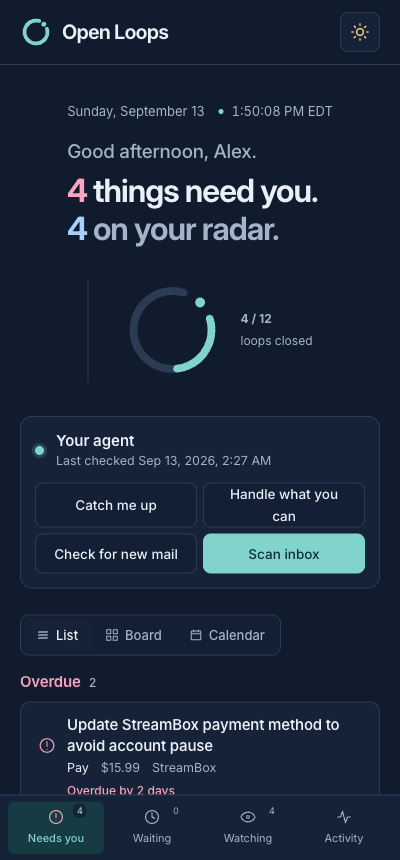
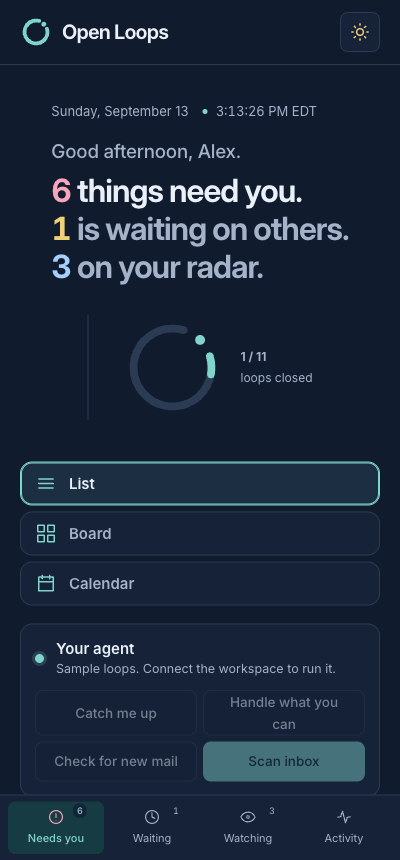
feat(web): area on every row and loop page; the three views as large tabs
Claude-Session: https://claude.ai/code/session_019ubQ7yENbnT3cashjRQMUd

diff --git a/web/app/globals.css b/web/app/globals.css
@@ -682,49 +682,59 @@ summary {
   }
 }
 
-/* View switch */
-.view-bar {
-  display: flex;
-  align-items: center;
-  justify-content: space-between;
-  gap: 12px;
-  margin-top: 26px;
-  margin-bottom: 14px;
-}
+/* View switch: the three views are the page's primary navigation */
 .view-switch {
-  display: inline-flex;
-  align-items: center;
-  gap: 3px;
-  padding: 3px;
-  border: 1px solid var(--border);
-  border-radius: 9px;
-  background: var(--surface);
+  display: grid;
+  grid-template-columns: repeat(3, minmax(0, 1fr));
+  gap: 8px;
+  margin: 8px 0 18px;
 }
 .view-switch a {
   display: flex;
   align-items: center;
-  gap: 6px;
-  padding: 6px 12px;
-  font-size: 13px;
-  font-weight: 500;
+  gap: 12px;
+  padding: 13px 16px;
+  border: 1px solid var(--border);
+  border-radius: 12px;
+  background: var(--card);
   color: var(--muted);
-  border-radius: 6px;
+  transition:
+    border-color 140ms,
+    background 140ms,
+    color 140ms;
 }
 .view-switch a:hover {
   color: var(--foreground);
+  border-color: color-mix(in srgb, var(--accent) 40%, var(--border));
 }
 .view-switch a[aria-current="page"] {
-  background: var(--card);
   color: var(--foreground);
-  box-shadow: 0 1px 4px #102c3212;
+  border-color: var(--accent);
+  background: color-mix(in srgb, var(--accent) 7%, var(--card));
+  box-shadow: inset 0 0 0 1px var(--accent);
 }
 .view-switch svg {
-  width: 14px;
-  height: 14px;
+  width: 22px;
+  height: 22px;
+  flex-shrink: 0;
+  color: var(--accent);
+}
+.view-switch strong {
+  display: block;
+  font-size: 15px;
+  font-weight: 600;
+  line-height: 1.3;
+}
+.view-switch small {
+  display: block;
+  font-size: 12.5px;
+  color: var(--muted);
 }
 .view-hint {
+  margin: 18px 0 -12px;
   font-size: 12px;
   color: var(--muted);
+  text-align: right;
 }
 .view-hint kbd {
   font: inherit;
@@ -843,6 +853,17 @@ summary {
 .tl-meta em {
   font-style: normal;
   color: var(--foreground);
+}
+.area-pill {
+  display: inline-flex;
+  align-items: center;
+  padding: 1px 7px;
+  border-radius: 5px;
+  font-size: 11.5px;
+  font-weight: 500;
+  color: var(--foreground);
+  background: var(--surface);
+  border: 1px solid var(--border);
 }
 .tl-due {
   font-size: 13px;
@@ -1009,9 +1030,15 @@ summary {
     width: 56px;
     height: 56px;
   }
-  .view-bar {
-    flex-direction: column;
-    align-items: flex-start;
+  .view-switch {
+    grid-template-columns: minmax(0, 1fr);
+    gap: 6px;
+  }
+  .view-switch a {
+    padding: 10px 14px;
+  }
+  .view-switch small {
+    display: none;
   }
   .view-hint {
     display: none;

diff --git a/web/components/loop-board.tsx b/web/components/loop-board.tsx
@@ -23,7 +23,14 @@ import {
   restorePositions,
   zoomCamera,
 } from '@/lib/board'
-import { DEMO_TIME_ZONE, formatDate, formatDue, formatMoney, groupByStatus } from '@/lib/format'
+import {
+  AREA_LABEL,
+  DEMO_TIME_ZONE,
+  formatDate,
+  formatDue,
+  formatMoney,
+  groupByStatus,
+} from '@/lib/format'
 import { LiveClock } from './live-clock'
 import { LoopMark, StateIcon } from './loop-mark'
 import './loop-board.css'
@@ -110,21 +117,21 @@ const CATEGORY_GROUPS: Group[] = (Object.keys(CATEGORY_LABEL) as LoopCategory[])
   }),
 )
 
-const AREA_LABEL: Record<LoopArea, [title: string, hint: string]> = {
-  school: ['School', 'Courses, credits, the registrar'],
-  work: ['Work', 'Colleagues, clients, reviews'],
-  money: ['Money', 'Bills, fees, subscriptions'],
-  health: ['Health', 'Doctors, dentists, claims'],
-  home: ['Home', 'Lease, utilities, moving'],
-  travel: ['Travel', 'Flights, documents, stays'],
-  community: ['Clubs', 'Teams, volunteering, events'],
-  other: ['Other', 'Everything else'],
+const AREA_HINT: Record<LoopArea, string> = {
+  school: 'Courses, credits, the registrar',
+  work: 'Colleagues, clients, reviews',
+  money: 'Bills, fees, subscriptions',
+  health: 'Doctors, dentists, claims',
+  home: 'Lease, utilities, moving',
+  travel: 'Flights, documents, stays',
+  community: 'Teams, volunteering, events',
+  other: 'Everything else',
 }
 
-const AREA_GROUPS: Group[] = (Object.keys(AREA_LABEL) as LoopArea[]).map((area, i) => ({
+const AREA_GROUPS: Group[] = (Object.keys(AREA_HINT) as LoopArea[]).map((area, i) => ({
   id: `area-${area}`,
-  title: AREA_LABEL[area][0],
-  hint: AREA_LABEL[area][1],
+  title: AREA_LABEL[area],
+  hint: AREA_HINT[area],
   empty: '',
   position: { x: 40 + (i % 4) * 335, y: 215 + Math.floor(i / 4) * 300 },
   tone: 'category',

diff --git a/web/components/view-switch.tsx b/web/components/view-switch.tsx
@@ -3,10 +3,22 @@ import { StateIcon } from './loop-mark'
 
 export type View = 'list' | 'board' | 'calendar'
 
-const VIEWS: { id: View; label: string; href: string; icon: string }[] = [
-  { id: 'list', label: 'List', href: '/', icon: 'list' },
-  { id: 'board', label: 'Board', href: '/?view=board', icon: 'overview' },
-  { id: 'calendar', label: 'Calendar', href: '/?view=calendar', icon: 'calendar' },
+const VIEWS: { id: View; label: string; caption: string; href: string; icon: string }[] = [
+  { id: 'list', label: 'List', caption: 'By when it is due', href: '/', icon: 'list' },
+  {
+    id: 'board',
+    label: 'Board',
+    caption: 'Arrange by state, category or area',
+    href: '/?view=board',
+    icon: 'overview',
+  },
+  {
+    id: 'calendar',
+    label: 'Calendar',
+    caption: 'Deadlines on the month',
+    href: '/?view=calendar',
+    icon: 'calendar',
+  },
 ]
 
 export function parseView(raw: string | string[] | undefined): View {
@@ -24,7 +36,10 @@ export function ViewSwitch({ current }: { current: View }) {
           aria-current={view.id === current ? 'page' : undefined}
         >
           <StateIcon name={view.icon} />
-          {view.label}
+          <span>
+            <strong>{view.label}</strong>
+            <small>{view.caption}</small>
+          </span>
         </Link>
       ))}
     </nav>

diff --git a/web/app/loops/[id]/page.tsx b/web/app/loops/[id]/page.tsx
@@ -6,7 +6,7 @@ import { ActionEffect } from '@/components/action-effect'
 import { StatusChip } from '@/components/status-chip'
 import { SubmitButton } from '@/components/submit-button'
 import { parseEffect, STATUS_TEXT, terminalReason } from '@/lib/effects'
-import { formatDate, formatDue, formatMoney, formatPercent } from '@/lib/format'
+import { AREA_LABEL, formatDate, formatDue, formatMoney, formatPercent } from '@/lib/format'
 import { getStore, USER_ID } from '@/lib/ledger'
 import { hasSourcePage, messageHref, SOURCE_LABEL } from '@/lib/source'
 
@@ -54,6 +54,7 @@ export default async function LoopPage({ params }: PageProps<'/loops/[id]'>) {
     (due === 'Due today' || due === 'Due tomorrow' || due.startsWith('Overdue'))
   const facts: { label: string; value: string; soon?: boolean }[] = [
     ...(due ? [{ label: 'When', value: due, soon }] : []),
+    ...(loop.area !== 'other' ? [{ label: 'Area', value: AREA_LABEL[loop.area] }] : []),
     ...(loop.amount ? [{ label: 'Amount', value: formatMoney(loop.amount) ?? '' }] : []),
     ...(loop.status === 'WAITING' && loop.waitingOn
       ? [{ label: 'Waiting on', value: loop.waitingOn }]

diff --git a/web/lib/format.ts b/web/lib/format.ts
@@ -1,4 +1,4 @@
-import type { ActionType, LoopStatus, Money, OpenLoop, Priority } from '@openloop/shared'
+import type { ActionType, LoopArea, LoopStatus, Money, OpenLoop, Priority } from '@openloop/shared'
 
 /**
  * The demo's clock. Every fixture date carries a -04:00 offset and the demo script says the club
@@ -204,4 +204,16 @@ export function groupByTime(loops: OpenLoop[], now: Date): Map<TimeBucket, OpenL
   )
   for (const loop of sorted) groups.get(bucket(loop))?.push(loop)
   return groups
+}
+
+/** How an area reads to a person. One owner for the words; the board and the rows share it. */
+export const AREA_LABEL: Record<LoopArea, string> = {
+  school: 'School',
+  work: 'Work',
+  money: 'Money',
+  health: 'Health',
+  home: 'Home',
+  travel: 'Travel',
+  community: 'Clubs',
+  other: 'Other',
 }

diff --git a/web/app/page.tsx b/web/app/page.tsx
@@ -112,15 +112,13 @@ export default async function Home({ searchParams }: PageProps<'/'>) {
         </div>
         <LoopRing closed={resolved} total={loops.length} />
       </section>
+      <ViewSwitch current={view} />
       {agent}
-      <div className="view-bar">
-        <ViewSwitch current={view} />
-        {view === 'list' && (
-          <p className="view-hint">
-            Arrow keys move, Enter opens, <kbd>D</kbd> marks done.
-          </p>
-        )}
-      </div>
+      {view === 'list' && (
+        <p className="view-hint">
+          Arrow keys move, Enter opens, <kbd>D</kbd> marks done.
+        </p>
+      )}
       {view === 'calendar' ? (
         <CalendarView loops={loops} now={now} />
       ) : (

diff --git a/web/components/today-list.tsx b/web/components/today-list.tsx
@@ -5,6 +5,7 @@ import { StateIcon } from '@/components/loop-mark'
 import { SubmitButton } from '@/components/submit-button'
 import {
   ACTION_LABEL,
+  AREA_LABEL,
   formatDate,
   formatDue,
   formatMoney,
@@ -105,6 +106,11 @@ function Row({ loop, now }: { loop: OpenLoop; now: Date }) {
           {loop.title}
         </Link>
         <span className="tl-meta">
+          {loop.area !== 'other' && (
+            <span className="area-pill" data-area={loop.area}>
+              {AREA_LABEL[loop.area]}
+            </span>
+          )}
           {verb && <em>{verb}</em>}
           {amount && <span>{amount}</span>}
           {who && <span>{who}</span>}

diff --git a/web/components/loop-board.css b/web/components/loop-board.css
@@ -89,14 +89,16 @@ body:has(.mindboard) .bottom-tabs,
 .board-view-switch a {
   display: flex;
   align-items: center;
-  gap: 6px;
-  padding: 6px 11px;
+  gap: 7px;
+  padding: 8px 14px;
+  font-size: 14px;
+  font-weight: 500;
   color: var(--muted);
-  border-radius: 6px;
+  border-radius: 7px;
 }
 .board-view-switch svg {
-  width: 14px;
-  height: 14px;
+  width: 16px;
+  height: 16px;
 }
 .board-view-switch a[aria-current="page"] {
   background: var(--card);

diff --git a/web/README.md b/web/README.md
@@ -11,13 +11,13 @@ Data source: with `OPENLOOP_LEDGER_TABLE` set (see `.env.example`), the DynamoDB
 
 Scan: with `OPENLOOP_RUNTIME_ARN` and the table set, the **Scan inbox** button posts to `/api/scan`, which invokes the deployed AgentCore runtime and proxies its progress stream to the browser while the runtime writes loops to the table; the dashboard refreshes as they land. A full scan takes about four minutes (`maxDuration = 300` on the route). **Check for new mail** posts `?variant=delta`, which replays the next-morning batch: the deposit and the write-up resolve, the flight gains evidence, a library loop appears. **Handle what you can** posts to `/api/handle`: the agent executes every allowed action and lists what needs the user. **Catch me up** posts to `/api/catch-up` and shows what changed since the last check, each line linking to its loop. **Approve** on a loop page marks the action approved and asks the agent to execute it (the button shows a pending state for the ~20 seconds it takes); without a runtime configured the record is only marked approved. Executed actions render what the agent produced: the draft email, the calendar event, the reminder (`components/action-effect.tsx`); cancelled and failed ones show the reason from the audit trail. The four operations live in one panel (`components/agent-panel.tsx`): the controls sit in a row beside the agent's name and when it last checked, and whatever ran last renders in a single result slot beneath them, formatted as what it is: the catch-up digest as a lead line plus items with state chips and loop links, handled actions as done and needs-you lists, a scan as a progress bar and a live log. Screenshots: `docs/screenshots/`. AWS credentials come from `~/.aws` locally and from environment variables on Vercel.
 
-Loop page (#67): one responsibility in the order a person checks it. The header carries the state chip, the title and a facts strip (when, amount, who, any reminder, confidence). *What to do* comes first: the next action as the lead sentence, the consequence labelled "If ignored", and the buttons: "I already did this" resolves the loop and cancels what it would have left behind, while "Remind me tomorrow" and "Ignore" park it in Watching so it stops being counted in "N things need you" (`lib/park.ts`, #36). Remind sets `remindAt` a day out and shows it in the facts strip; Ignore clears it. Neither calls the agent, and neither touches proposed actions: parking says "not now", not "done". Ignore is hidden on a loop already in Watching, where it would do nothing. *What I found* lists each piece of evidence as a quote with a quiet meta line (what it did to the loop, the date, a link to the source, how sure the agent is); the left rule takes the state color of what the evidence did. *What the agent did* lists actions as cards with the artifact inside (`components/action-effect.tsx`): draft email, calendar event, reminder; proposed ones carry Approve and Decline. *History* folds any reason longer than a sentence behind a native disclosure so the agent's full rationale is one click away without dominating the page. The overview hero carries a live clock in the demo time zone (`components/live-clock.tsx`, rendered empty on the server and filled after mount).
+Loop page (#67): one responsibility in the order a person checks it. The header carries the state chip, the title and a facts strip (when, area, amount, who, any reminder, confidence). *What to do* comes first: the next action as the lead sentence, the consequence labelled "If ignored", and the buttons: "I already did this" resolves the loop and cancels what it would have left behind, while "Remind me tomorrow" and "Ignore" park it in Watching so it stops being counted in "N things need you" (`lib/park.ts`, #36). Remind sets `remindAt` a day out and shows it in the facts strip; Ignore clears it. Neither calls the agent, and neither touches proposed actions: parking says "not now", not "done". Ignore is hidden on a loop already in Watching, where it would do nothing. *What I found* lists each piece of evidence as a quote with a quiet meta line (what it did to the loop, the date, a link to the source, how sure the agent is); the left rule takes the state color of what the evidence did. *What the agent did* lists actions as cards with the artifact inside (`components/action-effect.tsx`): draft email, calendar event, reminder; proposed ones carry Approve and Decline. *History* folds any reason longer than a sentence behind a native disclosure so the agent's full rationale is one click away without dominating the page. The overview hero carries a live clock in the demo time zone (`components/live-clock.tsx`, rendered empty on the server and filled after mount).
 
 Change banner (#39): above the hero, one or two sentences of what changed in the last 24 hours, built in `lib/changes.ts` from the audit trail and the loops' current states rather than by parsing reasons — an event says a loop changed, the loop says what it became. Only `state_changed`, `loop_created` and `action_executed` count: evidence and scans are the agent working, not a change in the world (SPEC §8H, never "you have 6 emails"). Up to two loops are named and linked, then "and N more". Nothing notable in the window means no banner at all, so a cold seeded ledger shows none and one appears after a delta run. Dismissal stores the newest counted event's timestamp in the `openloops-seen` cookie, read by the server so there is no flash, and the banner returns when something newer happens instead of staying hidden forever.
 
 Sources: `/messages/[id]` renders one demo email or calendar event so every evidence line and source ref on a loop page links back to what the agent actually read (SPEC §12). The inbox comes from `demo/seed-inbox.json` merged with `seed-inbox-delta.json`, bundled at build time rather than read from disk; unknown ids 404.
 
-Overview (#88): three views on the same loops, switched by links so every view is a URL. **List** is home and follows what Things, Todoist and Asana converged on: rows grouped by time (Overdue, Today, This week, Later, No date, Earlier for past dates the user does not owe, Resolved at the bottom), with the state icon and color as the marker on each row, the action verb, amount and who, the due date, and quick actions on hover (Source, Done). Arrow keys or J and K move between rows, Enter opens, D marks done (`components/list-keys.tsx`). The grouping lives in `lib/format.ts` (`groupByTime`, `daysUntil`) and counts days in the demo zone, so buckets and labels flip together at local midnight. **Calendar** (`components/calendar-view.tsx`) is a six-week table from the start of this week with each loop on its due day in its state color, plus Later and No date lists beneath. **Board** (`components/loop-board.tsx`, #83, #90) is the whiteboard: a hub carrying the headline and draggable groups on connectors, grouped by state (the default) or, with one switch, by the loop's category (payments, subscriptions, forms, replies, appointments, meetings, travel, purchases, admin, other) or by its area of life (school, work, money, health, home, travel, clubs, other, #91), in which case each card carries its state icon. A group's bottom edge drags to make it taller until everything shows; arrow keys on the handle do the same. Pan and zoom have a drag threshold and gentle wheel zoom. Positions, heights and the grouping are saved per user in browser storage under `openloops:board:<userId>:v1` and validated on read; Reset restores the defaults. The headline (what needs you, share closed), the live clock and the docked agent panel sit above List and Calendar; on the Board the agent panel is docked at the bottom of the canvas. Screenshots in [`docs/screenshots/`](../docs/screenshots/).
+Overview (#88): three views on the same loops, switched by three large tabs under the headline (List, Board, Calendar, each with a one-line caption) so every view is a URL. **List** is home and follows what Things, Todoist and Asana converged on: rows grouped by time (Overdue, Today, This week, Later, No date, Earlier for past dates the user does not owe, Resolved at the bottom), with the state icon and color as the marker on each row, the area of life as a small label (#91), the action verb, amount and who, the due date, and quick actions on hover (Source, Done). Arrow keys or J and K move between rows, Enter opens, D marks done (`components/list-keys.tsx`). The grouping lives in `lib/format.ts` (`groupByTime`, `daysUntil`) and counts days in the demo zone, so buckets and labels flip together at local midnight. **Calendar** (`components/calendar-view.tsx`) is a six-week table from the start of this week with each loop on its due day in its state color, plus Later and No date lists beneath. **Board** (`components/loop-board.tsx`, #83, #90) is the whiteboard: a hub carrying the headline and draggable groups on connectors, grouped by state (the default) or, with one switch, by the loop's category (payments, subscriptions, forms, replies, appointments, meetings, travel, purchases, admin, other) or by its area of life (school, work, money, health, home, travel, clubs, other, #91), in which case each card carries its state icon. A group's bottom edge drags to make it taller until everything shows; arrow keys on the handle do the same. Pan and zoom have a drag threshold and gentle wheel zoom. Positions, heights and the grouping are saved per user in browser storage under `openloops:board:<userId>:v1` and validated on read; Reset restores the defaults. The headline (what needs you, share closed), the live clock and the docked agent panel sit above List and Calendar; on the Board the agent panel is docked at the bottom of the canvas. Screenshots in [`docs/screenshots/`](../docs/screenshots/).
 
 Theme: the site defaults to light regardless of the device setting. The header toggle is available on every page and stores the choice in the `openloops-theme` cookie for one year; the root layout reads it so reloads render in the chosen theme immediately. Ledger access stays server-side; the board, navigation, theme toggle and agent controls run their interactions in Client Components.
 
